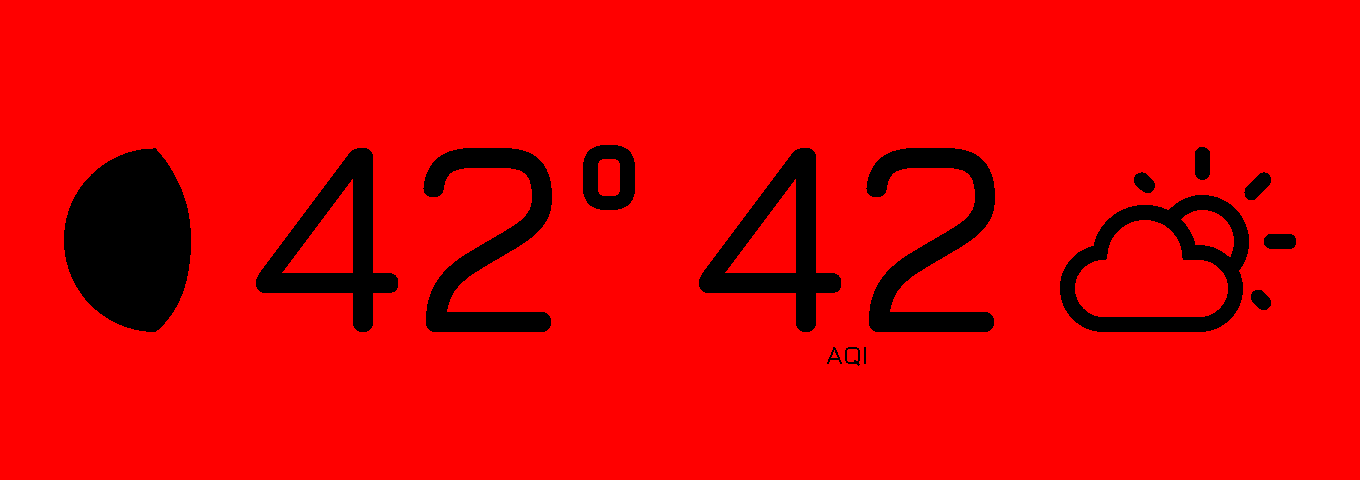
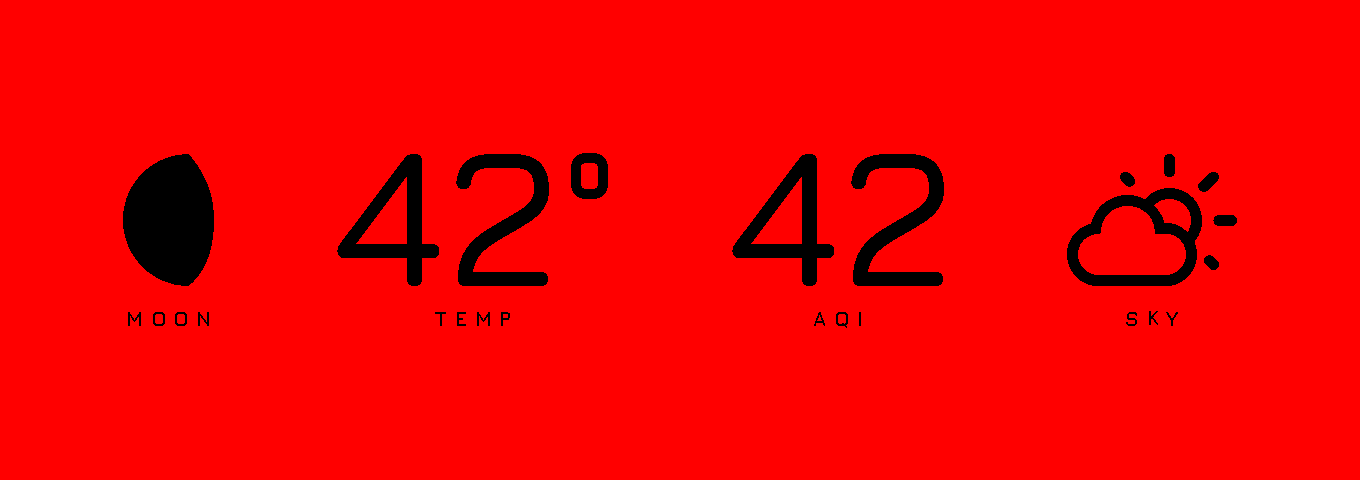
WIP wide_night: smaller marks, tracked labels under every mark
Readouts drop to ~134 px (minimum gap 0.9x the mark height) and each
carries a fixed-size, letter-spaced Jura Bold label (MOON / TEMP / AQI /
SKY) on one shared baseline, with marks and labels centred as a group.

Mid-iteration: tests, the pixel snapshot and the docs are not yet
updated for this layout.

Claude-Session: https://claude.ai/code/session_01Wymp7at7CJFjPkeNxKJVWi

diff --git a/src/render/components/wide_night_panel.py b/src/render/components/wide_night_panel.py
@@ -11,8 +11,10 @@ which they do with at least ``MIN_GAP`` between them. On a 1360-px strip they
 never fit at 80% — the moon alone is as wide as it is tall, and two numerals
 at 384 px are ~1500 px — so in practice the height is set by the width of
 tonight's readings, and ``fit_height`` is what decides it. Both numerals are
-set in ``style.font_date_number`` and the AQI caption in ``style.font_semibold``;
-the theme points every font slot at one face.
+set in ``style.font_date_number``. Every mark carries a small label on one
+shared baseline beneath the row — fixed-size, tracked caps in ``style.font_bold``,
+the instrument-panel convention — and the row plus its labels is centred on
+the plate. The theme points every font slot at one face.
 
 The colours come from the theme's style rather than being fixed here, so the
 plate reads the same on every backend:
@@ -52,12 +54,14 @@ BAND_FRACTION = 0.8
 # grow with the type — a fixed gap is overtaken by the space inside a mark
 # (a numeral and its degree sign) as the marks get taller, and the row stops
 # reading as four things — with a floor for very short rows.
-MIN_GAP_FRACTION = 0.35
+MIN_GAP_FRACTION = 0.9
 MIN_GAP = 48
-# The AQI caption, as fractions of the mark height, hung below the numeral.
-CAPTION_FRACTION = 0.14
-CAPTION_GAP_FRACTION = 0.08
-CAPTION_MIN_PT = 16
+# The labels: a fixed size rather than a share of the mark height, so they
+# stay deliberate at any row height; tracked out as a fraction of that size.
+LABEL_PT = 20
+LABEL_TRACKING = 0.4
+# Space between the bottom of the marks and the labels' cap tops.
+LABEL_GAP = 26
 # Font size the measurements are taken at before scaling to the target height.
 _PROBE_PT = 200
 # The weather-icons new-moon glyph: a ring the size of every phase glyph. It is
@@ -70,23 +74,23 @@ _MOON_RING = "\uf095"
 
 @dataclass(frozen=True)
 class Mark:
-    """One item on the plate: its text, font and an optional caption."""
+    """One item on the plate: its text and the label set beneath it."""
 
     kind: str  # "moon" | "temperature" | "aqi" | "weather"
     text: str
-    caption: str | None = None
+    caption: str
 
 
 def marks_for(data: DashboardData, today: date) -> list[Mark]:
     """The marks to draw, left to right, skipping any without data."""
-    out = [Mark("moon", moon_phase_glyph(today))]
+    out = [Mark("moon", moon_phase_glyph(today), "MOON")]
     weather = data.weather
     if weather is not None:
-        out.append(Mark("temperature", f"{weather.current_temp:.0f}°"))
+        out.append(Mark("temperature", f"{weather.current_temp:.0f}°", "TEMP"))
     if data.air_quality is not None:
-        out.append(Mark("aqi", str(data.air_quality.aqi), caption="AQI"))
+        out.append(Mark("aqi", str(data.air_quality.aqi), "AQI"))
     if weather is not None:
-        out.append(Mark("weather", OWM_ICON_MAP.get(weather.current_icon, FALLBACK_ICON)))
+        out.append(Mark("weather", OWM_ICON_MAP.get(weather.current_icon, FALLBACK_ICON), "SKY"))
     return out
 
 
@@ -122,7 +126,12 @@ def draw_wide_night(
     height = fit_height(marks, style, w, int(h * BAND_FRACTION))
     placed = [_measure(m, style, height) for m in marks]
     gap = (w - sum(p.width for p in placed)) / (len(placed) + 1)
-    mid_y = y0 + h / 2
+    label_font = style.font_bold(LABEL_PT)
+    cap_h = ink_box("M", label_font)[3] - ink_box("M", label_font)[1]
+    # Centre the marks and their labels as one group; the marks' own centre
+    # sits above the plate's midline by half the label band.
+    mid_y = y0 + h / 2 - (LABEL_GAP + cap_h) / 2
+    label_top = mid_y + height / 2 + LABEL_GAP
     # Unantialiased type: on an RGB canvas an antialiased edge is cut at
     # mid-grey by the panel's ink snap, which thins the strokes.
     previous_mode = draw.fontmode
@@ -130,7 +139,8 @@ def draw_wide_night(
     try:
         x = x0 + gap
         for p in placed:
-            _draw_placed(draw, p, x, mid_y, style, height, ink)
+            _draw_placed(draw, p, x, mid_y, ink)
+            _draw_label(draw, p.mark.caption, x + p.width / 2, label_top, label_font, ink)
             x += p.width + gap
     finally:
         draw.fontmode = previous_mode
@@ -227,7 +237,7 @@ def min_gap(height: int) -> int:
     return max(MIN_GAP, round(height * MIN_GAP_FRACTION))
 
 
-def _draw_placed(draw, p: Placed, x: float, cy: float, style: ThemeStyle, height: int, ink):
+def _draw_placed(draw, p: Placed, x: float, cy: float, ink) -> None:
     """Draw *p* with its box's left edge at *x*, vertically centred on *cy*."""
     left = round(x - p.box[0])
     top = round(cy - (p.ref[1] + p.ref[3]) / 2)
@@ -235,16 +245,24 @@ def _draw_placed(draw, p: Placed, x: float, cy: float, style: ThemeStyle, height
         # A new moon's glyph is only the ring — the dark limb's outline, which
         # this plate leaves out — so it draws nothing.
         draw.text((left, top), p.mark.text, font=p.font, fill=ink)
-    if p.mark.caption:
-        cap_font = style.font_semibold(max(CAPTION_MIN_PT, round(height * CAPTION_FRACTION)))
-        cb = draw.textbbox((0, 0), p.mark.caption, font=cap_font)
-        centre = left + (p.box[0] + p.box[2]) / 2
-        draw.text(
-            (
-                round(centre - (cb[0] + cb[2]) / 2),
-                round(top + p.ref[3] + height * CAPTION_GAP_FRACTION - cb[1]),
-            ),
-            p.mark.caption,
-            font=cap_font,
-            fill=ink,
-        )
+
+
+def tracked_width(text: str, font) -> float:
+    """Advance width of *text* set with ``LABEL_TRACKING`` between letters."""
+    step = font.size * LABEL_TRACKING
+    return sum(font.getlength(c) for c in text) + step * (len(text) - 1)
+
+
+def _draw_label(draw, text: str, cx: float, cap_top: float, font, ink) -> None:
+    """Set *text* letter by letter, tracked out, centred on *cx*.
+
+    PIL has no tracking, so each letter is placed by its own advance plus the
+    tracking step; the run is centred on its advance width, which for caps is
+    within a pixel of its ink.
+    """
+    x = cx - tracked_width(text, font) / 2
+    top = cap_top - ink_box("M", font)[1]
+    step = font.size * LABEL_TRACKING
+    for c in text:
+        draw.text((round(x), round(top)), c, font=font, fill=ink)
+        x += font.getlength(c) + step

diff --git a/src/render/themes/wide_night.py b/src/render/themes/wide_night.py
@@ -24,7 +24,7 @@ dark room every fetch.
 
 from __future__ import annotations
 
-from src.render.fonts import jura_semibold
+from src.render.fonts import jura_bold, jura_semibold
 from src.render.theme import (
     INKY_BLACK,
     INKY_RED,
@@ -59,11 +59,12 @@ def wide_night_theme() -> Theme:
         style=ThemeStyle(
             fg=1,
             bg=0,
-            # One face for the whole plate: numerals and the AQI caption.
+            # One face for the whole plate.
             font_regular=jura_semibold,
             font_medium=jura_semibold,
             font_semibold=jura_semibold,
-            font_bold=jura_semibold,
+            # The tracked labels under each mark.
+            font_bold=jura_bold,
             font_date_number=jura_semibold,
             accent_primary=INKY_RED,
             accent_secondary=INKY_BLACK,

diff --git a/src/render/fonts.py b/src/render/fonts.py
@@ -152,6 +152,10 @@ def jura_semibold(size: int) -> ImageFont.FreeTypeFont:
     return _get_jura(size, 600)
 
 
+def jura_bold(size: int) -> ImageFont.FreeTypeFont:
+    return _get_jura(size, 700)
+
+
 # Rajdhani — squarish semi-condensed techno sans drawn for UI legibility at small
 # sizes (Indian Type Foundry, OFL).  Carries the terminal theme's chrome: month
 # band, section labels (11px), and quote attribution.  Static weights rather than
